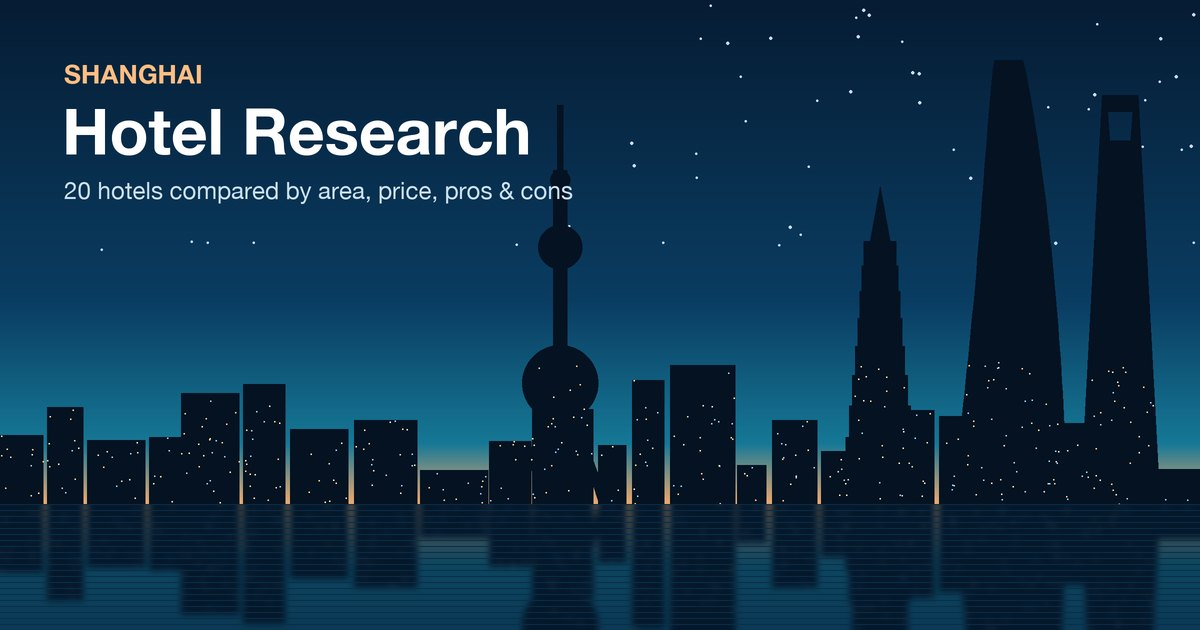
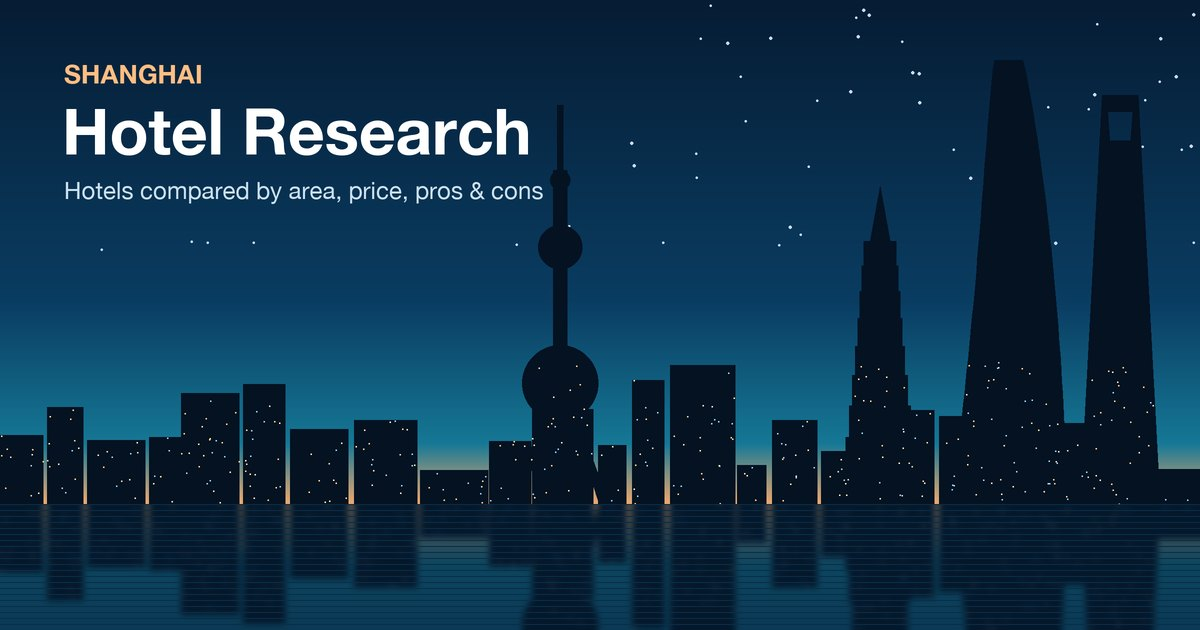
Add Amanyangyun to Shanghai hotel research

Changed region(s): [[0.0617, 0.2714, 0.4933, 0.3317]]

diff --git a/china/shanghai-hotels.html b/china/shanghai-hotels.html
@@ -3,9 +3,9 @@
 <head>
 <meta charset="UTF-8">
 <meta name="viewport" content="width=device-width, initial-scale=1.0">
-<title>Shanghai Hotel Research — 20 Properties (Handover Pack)</title>
-<meta property="og:title" content="Shanghai Hotel Research — 20 Properties">
-<meta property="og:description" content="20 Shanghai hotels compared by area, price, pros and cons.">
+<title>Shanghai Hotel Research — 21 Properties (Handover Pack)</title>
+<meta property="og:title" content="Shanghai Hotel Research — 21 Properties">
+<meta property="og:description" content="21 Shanghai hotels compared by area, price, pros and cons.">
 <meta property="og:image" content="https://gseng-resource.github.io/wanderlust/assets/shanghai.jpg">
 <meta property="og:image:width" content="1200">
 <meta property="og:image:height" content="630">
@@ -63,13 +63,13 @@
 </head>
 <body>
 <header class="top"><div class="wrap">
-  <h1>Shanghai Hotel Research — 20 Properties</h1>
+  <h1>Shanghai Hotel Research — 21 Properties</h1>
   <div class="sub">Session handover pack · Compiled 2026-09-28 · All details extracted from the linked Trip.com property pages (review feeds, policies, amenities) and standard Shanghai geography for the 2 km attraction radii.</div>
   <a class="jump" href="#filters" target="_self">Filter hotels ↓</a>
 </div></header>
 <div class="wrap">
 
-<div class="note"><strong>Price caveat:</strong> nightly rates are date-dependent. Figures are typical base-room ranges estimated from brand tier, guest price mentions in reviews, and official listings. Hard anchors: <strong>Bvlgari</strong> ~HK$6,309/night (Expedia) and publicly discussed at ¥7,000/night; <strong>Shangri-La Qiantan</strong> from ¥1,417/night (official site). Verify live rates on the Trip.com pages for your dates.</div>
+<div class="note"><strong>Price caveat:</strong> nightly rates are date-dependent. Figures are typical base-room ranges estimated from brand tier, guest price mentions in reviews, and official listings. Hard anchors: <strong>Bvlgari</strong> ~HK$6,309/night (Expedia) and publicly discussed at ¥7,000/night; <strong>Shangri-La Qiantan</strong> from ¥1,417/night (official site); <strong>Amanyangyun</strong> from CNY 6,509/night (Trip.com, 9–11 Nov 2026). Verify live rates on the Trip.com pages for your dates.</div>
 
 <h2>Zone overview</h2>
 <div class="tablewrap"><table class="summary">
@@ -83,6 +83,7 @@
   <tr><td>Suzhou Creek</td><td>1</td><td>Ultra-luxury flagship experience, Bund north & river views</td></tr>
   <tr><td>Lujiazui</td><td>1</td><td>Skyline tourism, IFC Mall, serviced-residence families</td></tr>
   <tr><td>Hengshan Rd</td><td>1</td><td>Apartment-style stays, pets allowed, plane-tree historic district</td></tr>
+  <tr><td>Minhang (Maqiao, outskirts)</td><td>1</td><td>Destination resort stay — heritage estate, spa and culture; far from the city centre</td></tr>
 </table></div>
 
 <h2>Price bands</h2>
@@ -93,17 +94,18 @@
   <tr><td>¥1,000–1,499</td><td>Donghu Collection (¥800–1,200) · SHANGYING CHAO (¥800–1,300) · Seclusive Wukang Mansion (¥900–1,300) · Artyzen NEW BUND 31 (¥900–1,400) · MUMIAN Expo (¥900–1,500) · Ascott Hengshan (¥1,000–1,500) · THE ONE Vignette (¥1,000–1,600) · Thompson Expo (¥1,000–1,600) · JINGYUAN AROMA GARDEN (¥1,100–1,700)</td></tr>
   <tr><td>¥1,500–1,999</td><td>Andaz Xintiandi (¥1,300–1,900) · Kimpton Qiantan (¥1,400–2,200) · Shangri-La Qiantan (¥1,400–2,200, from ¥1,417)</td></tr>
   <tr><td>¥2,000–4,999</td><td>IFC Residence (¥1,500–2,500) · MGM West Bund (¥1,800–2,800)</td></tr>
-  <tr><td>¥5,000+</td><td>Bvlgari Hotel Shanghai (¥5,000–7,000+)</td></tr>
+  <tr><td>¥5,000+</td><td>Bvlgari Hotel Shanghai (¥5,000–7,000+) · Amanyangyun (¥6,500–8,200)</td></tr>
 </table></div>
 
 <h2>Key differentiators</h2>
 <div class="tablewrap"><table class="summary">
   <tr><th>Feature</th><th>Hotels</th></tr>
-  <tr><td>Pool</td><td>Shangri-La Qiantan · Kimpton (rooftop) · Thompson Expo · MGM (rooftop) · Donghu (heated indoor) · Andaz · THE ONE · Bvlgari · IFC Residence · Ascott (indoor)</td></tr>
+  <tr><td>Pool</td><td>Shangri-La Qiantan · Kimpton (rooftop) · Thompson Expo · MGM (rooftop) · Donghu (heated indoor) · Andaz · THE ONE · Bvlgari · IFC Residence · Ascott (indoor) · Amanyangyun (heated indoor + outdoor, hot springs)</td></tr>
   <tr><td>In-room washer / kitchenette</td><td>THE ONE (every suite) · Ascott · IFC Residence · MUMIAN (some rooms) · Artyzen Habitat (microwave only)</td></tr>
   <tr><td>Free guest laundry</td><td>UrCove on the Bund · UrCove Xuhui Riverside</td></tr>
   <tr><td>Pets allowed</td><td>Ascott Hengshan (¥200/night) — only one on the list</td></tr>
   <tr><td>No deposit</td><td>UrCove on the Bund · UrCove Xuhui Riverside · Ascott Hengshan</td></tr>
+  <tr><td>Kids' club</td><td>Amanyangyun (plus children's pool &amp; playground; ages 0–11 stay free without extra bed)</td></tr>
   <tr><td>Newest (2025)</td><td>MUMIAN Expo · Thompson Expo · UrCove on the Bund · UrCove Xuhui · SHANGYING CHAO</td></tr>
 </table></div>
 
@@ -117,7 +119,7 @@
   <div class="frow prices" id="fprices"><span class="flabel">Price</span></div>
 </div>
 
-<nav class="zones"><a target="_self" href="#Qiantan--Expo">Qiantan / Expo (8)</a><a target="_self" href="#West-Bund">West Bund (2)</a><a target="_self" href="#French-Concession">French Concession (3)</a><a target="_self" href="#Yu-Garden--Bund--Old-Town">Yu Garden / Bund / Old Town (2)</a><a target="_self" href="#Xintiandi">Xintiandi (1)</a><a target="_self" href="#Peoples-Square--Jingan">People&#x27;s Square / Jing&#x27;an (1)</a><a target="_self" href="#Suzhou-Creek">Suzhou Creek (1)</a><a target="_self" href="#Lujiazui">Lujiazui (1)</a><a target="_self" href="#Hengshan-Rd">Hengshan Rd (1)</a></nav>
+<nav class="zones"><a target="_self" href="#Qiantan--Expo">Qiantan / Expo (8)</a><a target="_self" href="#West-Bund">West Bund (2)</a><a target="_self" href="#French-Concession">French Concession (3)</a><a target="_self" href="#Yu-Garden--Bund--Old-Town">Yu Garden / Bund / Old Town (2)</a><a target="_self" href="#Xintiandi">Xintiandi (1)</a><a target="_self" href="#Peoples-Square--Jingan">People&#x27;s Square / Jing&#x27;an (1)</a><a target="_self" href="#Suzhou-Creek">Suzhou Creek (1)</a><a target="_self" href="#Lujiazui">Lujiazui (1)</a><a target="_self" href="#Hengshan-Rd">Hengshan Rd (1)</a><a target="_self" href="#Minhang">Minhang (1)</a></nav>
 
 <section id="Qiantan--Expo"><h2>Qiantan / Expo <span class="count">8 hotels</span></h2><div class="grid">
     <article class="card" data-zone="Qiantan / Expo" data-band="b1">
@@ -310,7 +312,7 @@
       </header>
       <div class="meta">Opened 2025 · 129 rooms · Check-in 15:00 · Breakfast ¥129 · Deposit None · Pool: No · Pets: No (service animals ok)</div>
       <p><strong>Price (est.):</strong> ¥600–900</p>
-      <p class="pros"><strong>+ Pros:</strong> Directly opposite the Bund waterfront; 120 straight positive reviews; cheapest breakfast of all 20 (¥129, rotating hot dishes); free guest laundry with commercial washers/dryers; Dyson + smart toilet; no deposit; bay-window skyline views from floor 3+.</p>
+      <p class="pros"><strong>+ Pros:</strong> Directly opposite the Bund waterfront; 120 straight positive reviews; one of the cheapest breakfasts on the list (¥129, rotating hot dishes); free guest laundry with commercial washers/dryers; Dyson + smart toilet; no deposit; bay-window skyline views from floor 3+.</p>
       <p class="cons"><strong>− Cons:</strong> No pool; no cribs/extra beds; no airport transfer; elevator system inconvenient; one AC-drip incident; housekeeping timeliness occasionally flagged.</p>
       <p class="attr"><strong>Within 2 km:</strong> The Bund (across the street) · Nanjing Rd East · Yu Garden ~1 km · City God Temple · Huangpu Park · ferry/bus at door</p>
       <a class="linkbtn" href="https://www.trip.com/w/ExDI3F77XW2" target="_blank" rel="noopener">Trip.com page ↗</a>
@@ -381,15 +383,31 @@
       <a class="linkbtn" href="https://www.trip.com/w/2RA77j55XW2" target="_blank" rel="noopener">Trip.com page ↗</a>
     </article></div></section>
 
+<section id="Minhang"><h2>Minhang (Maqiao, outskirts) <span class="count">1 hotel</span></h2><div class="grid">
+    <article class="card" data-zone="Minhang" data-band="b5">
+      <header>
+        <h3>Amanyangyun</h3>
+        <div class="cn">上海养云安缦酒店</div>
+        <span class="band" style="color:#8250df;background:#fbefff">¥5,000+</span>
+      </header>
+      <div class="meta">Opened 2018 · 61 rooms · Check-in 15:00 · Breakfast ¥300 · Deposit — · Pool: Yes (heated indoor; outdoor temporarily closed) · Pets: No</div>
+      <p><strong>Price (est.):</strong> ¥6,500–8,200 (live Trip.com for 9–11 Nov 2026: from CNY 6,509/night; 2 nights CNY 13,800 incl. taxes, non-refundable)</p>
+      <p class="pros"><strong>+ Pros:</strong> Highest-rated on the list (9.5/10, 458 reviews; Trip.com Global 100 Luxury 2026); estate of relocated Ming/Qing-era houses and ancient camphor trees, deer and swans; heated indoor pool, hot-spring hot/cold pools, spa, hammam, free gym; 4 restaurants (Lazhu Jiangxi cuisine praised, Yinlu, ARVA Italian); calligraphy, painting and fan-making classes, private IMAX cinema; very family-friendly (kids&#x27; club, children&#x27;s pool, playground, kids 0–11 free without extra bed); free bikes and parking; room packages bundle meals, spa and activities.</p>
+      <p class="cons"><strong>− Cons:</strong> Remote — 23 km from Hongqiao Airport and far from the city centre, inconvenient for daily sightseeing trips; some furnishings dated (worn wooden floors), unlabelled light switches, AC vent blowing onto the bed; a few reports of cool reception and unexpected dining service charges; outdoor pool temporarily closed; lowest rates non-refundable.</p>
+      <p class="attr"><strong>Nearby:</strong> Maqiao Forest Sports Park · Qizhong Forest Sports City Tennis Center (Rolex Shanghai Masters) · Xinqiao Railway Station ~6 km · Hongqiao Airport ~23 km</p>
+      <a class="linkbtn" href="https://www.trip.com/w/rejH3VrDXW2" target="_blank" rel="noopener">Trip.com page ↗</a>
+    </article></div></section>
+
 <div class="empty" id="fempty" hidden>No hotels match these filters. <a href="#filters" target="_self" id="fempty-reset">Clear filters</a></div>
 
 <footer>
   <p><strong>Handover notes:</strong></p>
   <ul>
-    <li>One submitted link (<code>trip.com/w/Km9NOGH7XW2</code>) was a duplicate of MUMIAN Shanghai Expo (<code>trip.com/w/7tfSvYE7XW2</code>) — the list contains 20 unique properties.</li>
+    <li>One submitted link (<code>trip.com/w/Km9NOGH7XW2</code>) was a duplicate of MUMIAN Shanghai Expo (<code>trip.com/w/7tfSvYE7XW2</code>) — the original list contained 20 unique properties.</li>
+    <li>Added 2026-09-28: Amanyangyun. Price is a live Trip.com rate for 9–11 Nov 2026 (the dates in the shared link); its deposit is not stated on Trip.com.</li>
     <li>Review feeds on Trip.com are AI-translated from Chinese; the UrCove Xuhui page in particular contains cross-posted reviews where the original hotel name was garbled (mentions of "Atour"). Property identity was verified against official details (opened 2025, 160 rooms, Dream Center location).</li>
     <li>Recurring watch-outs across the list: soundproofing is the #1 complaint category citywide; most 2024–2025 openings have no pool; CNY 1,000/night deposits are standard at Hyatt/IHG soft brands.</li>
-    <li>All 20 Trip.com source links are embedded as buttons on each hotel card.</li>
+    <li>All Trip.com source links are embedded as buttons on each hotel card.</li>
   </ul>
 </footer>
 </div>

diff --git a/index.html b/index.html
@@ -83,7 +83,7 @@
   <div class="list">
     <a class="card" href="china/shanghai-hotels.html">
       <img src="assets/shanghai.jpg" alt="">
-      <div><div class="title">Shanghai Hotel Research</div><div class="desc">20 hotels compared by area, price, pros and cons</div></div>
+      <div><div class="title">Shanghai Hotel Research</div><div class="desc">21 hotels compared by area, price, pros and cons</div></div>
       <span class="arrow">›</span>
     </a>
   </div>
